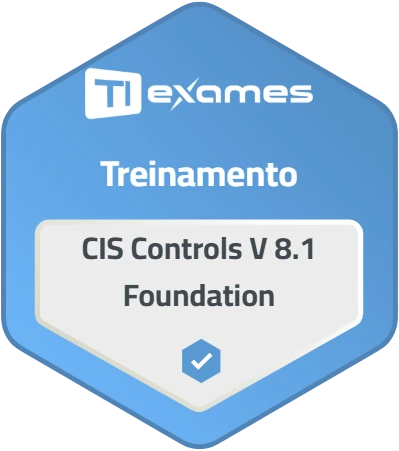
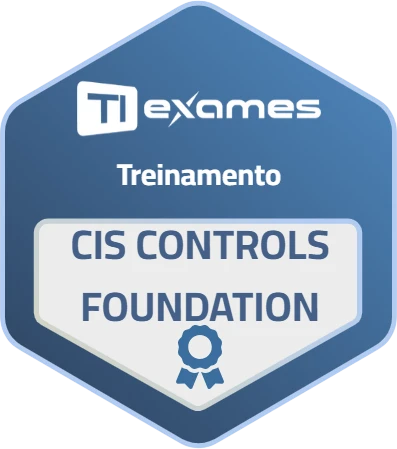
.

diff --git a/sobre.html b/sobre.html
@@ -134,7 +134,7 @@
 
       <div class="cert-card">
         <img src="img/badge-tiexames-aif.webp" alt="EXIN Artificial Intelligence Foundation">
-        <h3>Treinamento EXIN Artificial Intelligence Foundation</h3>
+        <h3>EXIN Artificial Intelligence Foundation</h3>
         <a href="assets/certificados/exin-aif-ti-exames.pdf" target="_blank" rel="noopener" class="btn-verify">Ver PDF</a>
       </div>
 
@@ -165,13 +165,13 @@
 
       <div class="cert-card">
         <img src="img/badge-dpmm.webp" alt="Dynamic Project Management Method (DPMM)">
-        <h3>Treinamento DPMM</h3>
+        <h3>Dynamic Project Management Method</h3>
         <a href="assets/certificados/dpmm-ti-exames.pdf" target="_blank" rel="noopener" class="btn-verify">Ver PDF</a>
       </div>
 
       <div class="cert-card">
         <img src="img/badge-cis-controls.webp" alt="CIS Controls">
-        <h3>Treinamento CIS Controls v8.1 Foundation</h3>
+        <h3>CIS Controls v8.1 Foundation</h3>
         <a href="assets/certificados/cis-control-ti-exames.pdf" target="_blank" rel="noopener" class="btn-verify">Ver PDF</a>
       </div>
 
@@ -194,8 +194,8 @@
       </div>
 
       <div class="cert-card">
-        <img src="img/badge-santander.webp" alt="Bootcamp Santander Cibersegurança">
-        <h3>Bootcamp Cibersegurança</h3>
+        <img src="img/badge-ciberseguranca.webp" alt="Bootcamp Santander Cibersegurança">
+        <h3>Bootcamp Santander Cibersegurança</h3>
         <a href="https://www.dio.me/certificate/5L70LLX5/share" target="_blank" class="btn-verify">Validar</a>
       </div>
 
